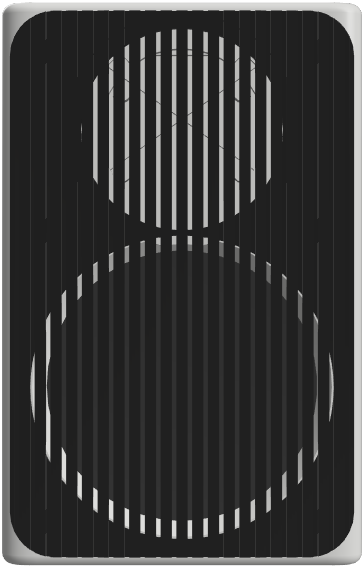
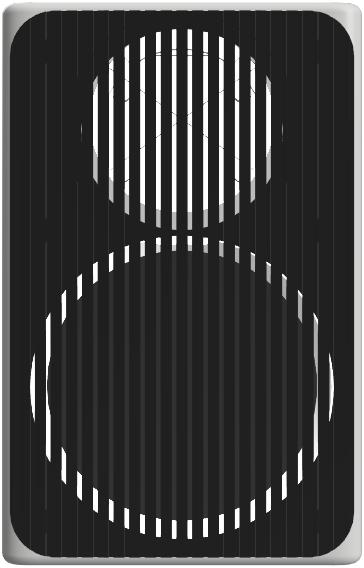
Drivers behind the grille

diff --git a/index.html b/index.html
@@ -62,12 +62,14 @@
   .stage { margin: 26px -20px 0; padding: 26px 20px 18px; background: var(--stage); }
   .pair { display: flex; justify-content: center; gap: 9%; }
   .pair .side { width: 38%; max-width: 168px; }
-  .pair img { width: 100%; height: auto; display: block; filter: drop-shadow(0 18px 22px rgba(0,0,0,.3)); user-select: none; -webkit-user-select: none; }
+  .spk { position: relative; filter: drop-shadow(0 18px 22px rgba(0,0,0,.3)); }
+  .spk svg { position: absolute; inset: 0; width: 100%; height: 100%; }
+  .pair img { position: relative; width: 100%; height: auto; display: block; user-select: none; -webkit-user-select: none; }
   .pair .side { text-align: center; }
   .pair .side .eyebrow { display: block; margin-top: 12px; transition: color .3s; }
   .pair .side.lit .eyebrow { color: var(--text); }
-  .pair .side img { transition: opacity .3s; }
-  .pair.dim .side:not(.lit) img { opacity: .45; }
+  .pair .side .spk { transition: opacity .3s; }
+  .pair.dim .side:not(.lit) .spk { opacity: .45; }
   h2 { font-weight: 300; font-size: 28px; line-height: 1.15; margin: 28px 0 8px; letter-spacing: .01em; }
   .lead { color: var(--muted); margin: 0; font-size: 14px; }
   .steps { list-style: none; padding: 0; margin: 22px 0 0; counter-reset: s; }
@@ -215,29 +217,25 @@
     <linearGradient id="gEdge" x1="0" y1="0" x2="0" y2="1"><stop offset="0" stop-color="#fff" stop-opacity=".22"/><stop offset=".08" stop-color="#fff" stop-opacity="0"/></linearGradient>
     <radialGradient id="gCone" cx=".42" cy=".38" r=".75"><stop offset="0" stop-color="#3b3b3f"/><stop offset=".6" stop-color="#18181a"/><stop offset="1" stop-color="#0a0a0b"/></radialGradient>
     <radialGradient id="gDome" cx=".38" cy=".34" r=".7"><stop offset="0" stop-color="#d9d6cf"/><stop offset=".45" stop-color="#8b8780"/><stop offset="1" stop-color="#2c2b29"/></radialGradient>
+    <radialGradient id="gWave" cx=".5" cy=".5" r=".5"><stop offset=".45" stop-color="#050505"/><stop offset="1" stop-color="#2a2a2d"/></radialGradient>
+    <radialGradient id="gSurround" cx=".5" cy=".5" r=".5"><stop offset=".86" stop-color="#0a0a0b"/><stop offset=".93" stop-color="#2b2b2e"/><stop offset="1" stop-color="#0a0a0b"/></radialGradient>
     <radialGradient id="gCap" cx=".4" cy=".35" r=".7"><stop offset="0" stop-color="#55555a"/><stop offset="1" stop-color="#121213"/></radialGradient>
-    <symbol id="speaker" viewBox="0 0 120 200">
-      <rect x="2" y="2" width="116" height="196" rx="9" fill="url(#gCab)"/>
-      <rect x="2" y="2" width="116" height="196" rx="9" fill="url(#gEdge)"/>
-      <rect x="2.5" y="2.5" width="115" height="195" rx="8.5" fill="none" stroke="#fff" stroke-opacity=".07"/>
-      <!-- tweeter -->
-      <circle cx="60" cy="50" r="19" fill="var(--drv)"/>
-      <circle cx="60" cy="50" r="17.5" fill="none" stroke="var(--metal)" stroke-opacity=".55" stroke-width=".8"/>
-      <circle cx="60" cy="50" r="12" fill="#111"/>
-      <circle cx="60" cy="50" r="8.5" fill="url(#gDome)"/>
-      <!-- woofer -->
-      <circle cx="60" cy="128" r="47" fill="var(--drv)"/>
-      <circle cx="60" cy="128" r="45.5" fill="none" stroke="var(--metal)" stroke-opacity=".5" stroke-width=".8"/>
-      <circle cx="60" cy="128" r="41" fill="#1d1d20"/>
-      <circle cx="60" cy="128" r="36" fill="url(#gCone)"/>
-      <circle cx="60" cy="128" r="36" fill="none" stroke="#000" stroke-opacity=".5"/>
-      <circle cx="60" cy="128" r="13" fill="url(#gCap)"/>
-      <!-- screws -->
-      <g fill="var(--metal)" fill-opacity=".6">
-        <circle cx="60" cy="83.5" r="1.3"/><circle cx="60" cy="172.5" r="1.3"/><circle cx="15.5" cy="128" r="1.3"/><circle cx="104.5" cy="128" r="1.3"/>
-      </g>
-      <!-- status light -->
-      <circle class="spk-led" cx="60" cy="190" r="1.6" fill="var(--faint)"/>
+    <!-- drivers seen through the grille slots of the Fusion render (img/speaker-front.png, 364 x 568) -->
+    <symbol id="drivers" viewBox="0 0 364 568">
+      <rect x="10" y="10" width="344" height="548" rx="26" fill="#0c0c0d"/>
+      <!-- tweeter: faceplate, waveguide, dome -->
+      <circle cx="181.5" cy="120" r="92" fill="#141416"/>
+      <circle cx="181.5" cy="120" r="84" fill="none" stroke="#3a3936" stroke-width="2"/>
+      <circle cx="181.5" cy="120" r="62" fill="url(#gWave)"/>
+      <circle cx="181.5" cy="120" r="30" fill="url(#gDome)"/>
+      <circle cx="181.5" cy="120" r="30" fill="none" stroke="#000" stroke-opacity=".5"/>
+      <!-- woofer: basket rim, rubber surround, cone, dust cap -->
+      <circle cx="181.5" cy="387" r="152" fill="#141416"/>
+      <circle cx="181.5" cy="387" r="146" fill="none" stroke="#3a3936" stroke-width="2"/>
+      <circle cx="181.5" cy="387" r="138" fill="url(#gSurround)"/>
+      <circle cx="181.5" cy="387" r="120" fill="url(#gCone)"/>
+      <circle cx="181.5" cy="387" r="120" fill="none" stroke="#000" stroke-opacity=".6" stroke-width="2"/>
+      <circle cx="181.5" cy="387" r="44" fill="url(#gCap)"/>
     </symbol>
   </defs>
 </svg>
@@ -257,8 +255,8 @@
     <div class="top"><span class="word">V&amp;X<small>mark 4</small></span><span class="eyebrow" id="cStep">Kết nối</span></div>
     <div class="stage">
       <div class="pair">
-        <div class="side"><img src="img/speaker-front.png" alt="V&amp;X mark 4" draggable="false"><span class="eyebrow">Trái</span></div>
-        <div class="side"><img src="img/speaker-front.png" alt="V&amp;X mark 4" draggable="false"><span class="eyebrow">Phải</span></div>
+        <div class="side"><div class="spk"><svg viewBox="0 0 364 568" aria-hidden="true"><use href="#drivers"/></svg><img src="img/speaker-front.png" alt="V&amp;X mark 4" draggable="false"></div><span class="eyebrow">Trái</span></div>
+        <div class="side"><div class="spk"><svg viewBox="0 0 364 568" aria-hidden="true"><use href="#drivers"/></svg><img src="img/speaker-front.png" alt="V&amp;X mark 4" draggable="false"></div><span class="eyebrow">Phải</span></div>
       </div>
     </div>
     <h2>Kết nối với loa</h2>
@@ -292,8 +290,8 @@
     <div class="wrap">
       <div class="hero">
         <div class="pair" id="heroPair">
-          <div class="side" data-r="1"><img src="img/speaker-front.png" alt="V&amp;X mark 4" draggable="false"><span class="eyebrow">Trái</span></div>
-          <div class="side" data-r="2"><img src="img/speaker-front.png" alt="V&amp;X mark 4" draggable="false"><span class="eyebrow">Phải</span></div>
+          <div class="side" data-r="1"><div class="spk"><svg viewBox="0 0 364 568" aria-hidden="true"><use href="#drivers"/></svg><img src="img/speaker-front.png" alt="V&amp;X mark 4" draggable="false"></div><span class="eyebrow">Trái</span></div>
+          <div class="side" data-r="2"><div class="spk"><svg viewBox="0 0 364 568" aria-hidden="true"><use href="#drivers"/></svg><img src="img/speaker-front.png" alt="V&amp;X mark 4" draggable="false"></div><span class="eyebrow">Phải</span></div>
         </div>
       </div>
       <h1 class="title">V&amp;X mark 4</h1>
